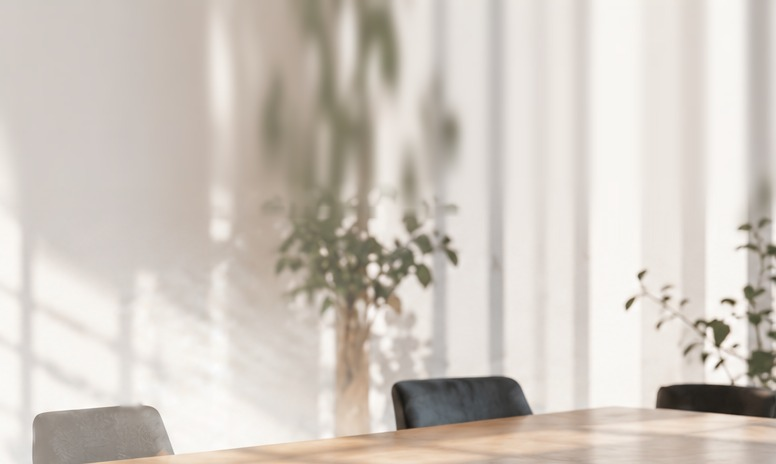
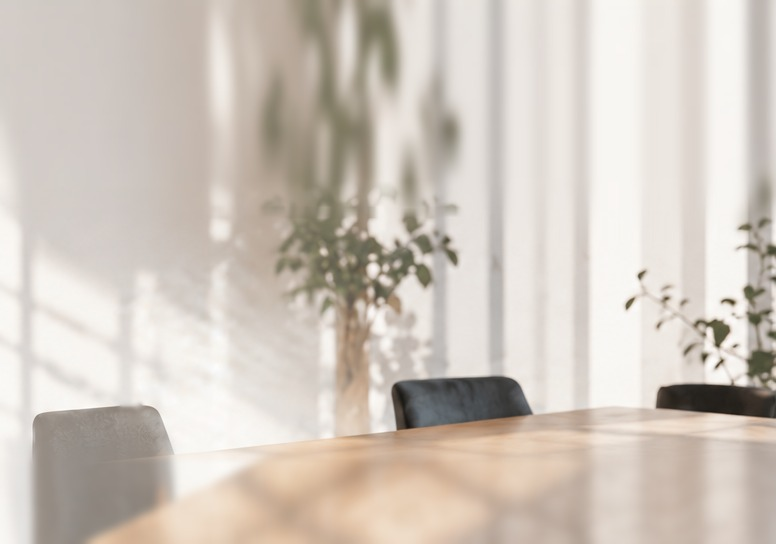
style(interview): SP の上部写真を招待カードの裏まで続け、左右 3px の隙間に背景を見せる（参考 CTA (1).png）
- invite-bg.jpg の下の机を 80px 延ばし、SP は枠を 68px 下へ伸ばす（椅子の位置は従来どおり）
- PC・タブレットは延ばした分だけ枠を高くして見た目を維持

diff --git a/src/components/sections/InterviewGuide.tsx b/src/components/sections/InterviewGuide.tsx
@@ -45,17 +45,17 @@ export default function InterviewGuide({ kind }: { kind: InterviewKind }) {
       <div className="wrap relative">
         {/* 上部（社名・キャッチ）。背景の室内写真と手書きは別画像で重ねる（手書きの大きさ・位置を写真の拡縮と切り離すため） */}
         <div className="relative">
-          {/* 室内写真（上の壁を延ばした縦長版。下端の机を基準に置く）。PC・タブレットは右寄せで左と下を背景色へ溶かす。SP は右 62% の枠に写真の右端（右の椅子とその上の植物）だけを切り出して見せる（画像を枠の 170% の高さで右下に置き、はみ出した左側は枠で隠す。下端は招待カードの上端に揃える） */}
+          {/* 室内写真（上の壁と下の机を延ばした縦長版。下端の机を基準に置き、PC・タブレットは延ばした机の分だけ枠を高くして下を溶かす）。PC・タブレットは右寄せで左と下を背景色へ溶かす。SP は右 62% の枠に写真の右端（右の椅子とその上の植物）だけを切り出して見せる（画像を右下に置き、はみ出した左側は枠で隠す。写真の下端の机は延ばしてあり、招待カードの裏まで 68px 続けて左右 3px の隙間に写真を見せる。椅子の高さは延長分を除いた枠の高さ × 1.7 で従来どおり） */}
           <Picture
             src={hero.image.bg}
             alt=""
             sizes="(max-width: 600px) 100vw, 60vw"
             priority
-            className="absolute top-0 right-[calc(var(--spacing-pad-x)*-1)] block h-[360px] w-[60vw] [mask-image:linear-gradient(to_right,transparent,black_26%),linear-gradient(to_top,transparent,black_30%)] [mask-composite:intersect] max-pc:h-[300px] max-sp:right-[calc(var(--spacing-pad-x-sp)*-1)] max-sp:bottom-0 max-sp:h-auto max-sp:w-[62%] max-sp:overflow-hidden max-sp:[mask-image:linear-gradient(to_right,transparent,black_45%)]"
-            imgClassName="size-full object-cover object-left-bottom max-sp:absolute max-sp:right-0 max-sp:bottom-0 max-sp:h-[170%] max-sp:w-auto max-sp:max-w-none"
+            className="absolute top-0 right-[calc(var(--spacing-pad-x)*-1)] block h-[455px] w-[60vw] [mask-image:linear-gradient(to_right,transparent,black_26%),linear-gradient(to_top,transparent,black_45%)] [mask-composite:intersect] max-pc:h-[352px] max-sp:right-[calc(var(--spacing-pad-x-sp)*-1)] max-sp:-bottom-[68px] max-sp:h-auto max-sp:w-[62%] max-sp:overflow-hidden max-sp:[mask-image:linear-gradient(to_right,transparent,black_45%)]"
+            imgClassName="size-full object-cover object-left-bottom max-sp:absolute max-sp:right-0 max-sp:bottom-0 max-sp:h-[calc((100%_-_68px)*1.993)] max-sp:w-auto max-sp:max-w-none"
           />
           {/* SP は見本どおり左側を白く溶かす（文字の下は白、右に行くほど写真が見える） */}
-          <span aria-hidden className="absolute -inset-x-pad-x-sp top-0 bottom-0 hidden bg-[linear-gradient(to_right,var(--color-bg)_0%,color-mix(in_srgb,var(--color-bg)_85%,transparent)_30%,color-mix(in_srgb,var(--color-bg)_35%,transparent)_62%,transparent_85%)] max-sp:block" />
+          <span aria-hidden className="absolute -inset-x-pad-x-sp top-0 -bottom-[68px] hidden bg-[linear-gradient(to_right,var(--color-bg)_0%,color-mix(in_srgb,var(--color-bg)_85%,transparent)_30%,color-mix(in_srgb,var(--color-bg)_35%,transparent)_62%,transparent_85%)] max-sp:block" />
           {/* 手書き「TAKE THE MASK OFF」（透過 PNG）。PC は写真の左寄り、SP はキャッチの右上 */}
           <Picture src={hero.image.hand} alt={hero.image.alt} sizes="(max-width: 600px) 104px, 14vw" priority className="absolute top-[86px] left-[calc(57vw-var(--spacing-pad-x))] block w-[13vw] max-pc:top-[70px] max-pc:left-auto max-pc:right-[14%] max-pc:w-[200px] max-sp:top-[44px] max-sp:right-0 max-sp:w-[min(104px,26vw)]" imgClassName="block h-auto w-full" />
 

diff --git a/src/content/interview.ts b/src/content/interview.ts
@@ -16,7 +16,7 @@ export const INTERVIEW = {
     sub: "リラックスしてお話しできる場です。\n当日はお会いできることを楽しみにしています。",
     /**
      * 上部の室内写真（bg）と、その上に重ねる手書き「TAKE THE MASK OFF」（hand、透過 PNG）。docs/MasKOFF面接招待ランディングページ.png の右上を切り出し、
-     * 焼き込みの罫線・一言を消して、手書きの線だけを抜き出したもの（bg は線の跡を周りの色で埋め、SP で縮小して敷けるよう上の壁を 180px 延ばしてある）。alt は hand に付ける
+     * 焼き込みの罫線・一言を消して、手書きの線だけを抜き出したもの（bg は線の跡を周りの色で埋め、SP で縮小して敷けるよう上の壁を 180px、カードの裏まで続くよう下の机を 80px 延ばしてある）。alt は hand に付ける
      */
     image: { bg: "/images/interview/invite-bg.jpg", hand: "/images/interview/invite-hand.png", alt: "TAKE THE MASK OFF" },
   },
